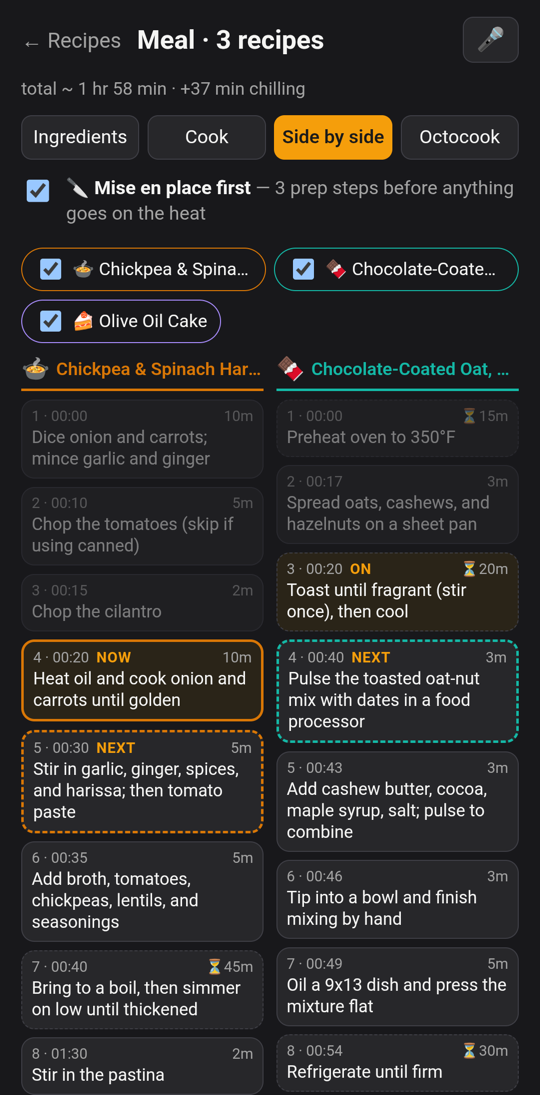
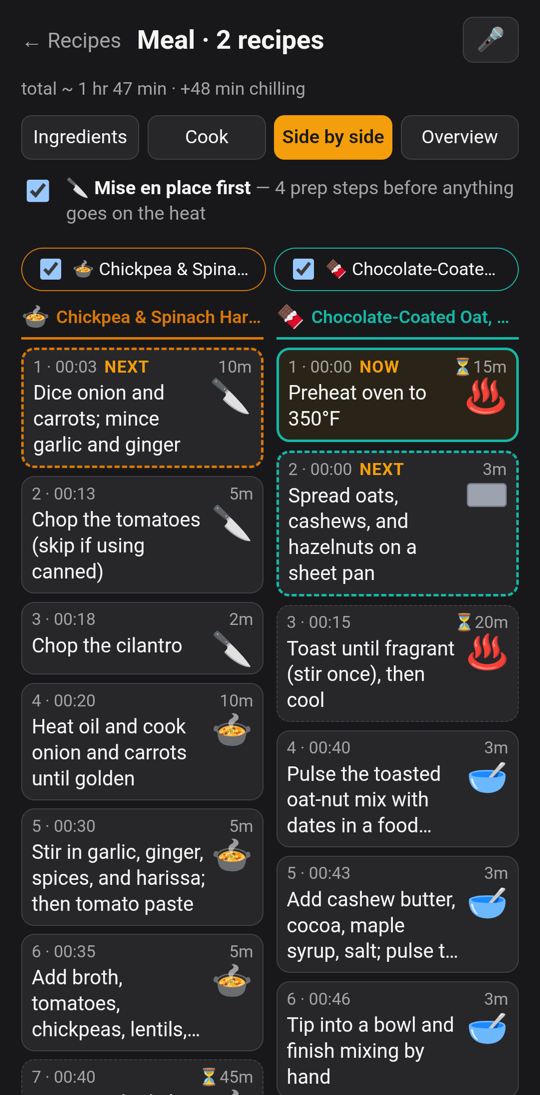
update README screenshots for Overview and Side by side

diff --git a/README.md b/README.md
@@ -9,7 +9,7 @@ Octocook takes the recipes you want to make, breaks each one into small timed st
   <tr>
     <td align="center"><img src="docs/screenshots/3-cook.png" width="240" alt="Cook mode: the current step, large, with the previous step grayed above and a meanwhile rail showing the oven toasting"><br><sub><b>Cook</b> — one step at a time, with what's going on in the background</sub></td>
     <td align="center"><img src="docs/screenshots/4-side-by-side.png" width="240" alt="Side by side: a column per recipe with NOW, NEXT and ON markers"><br><sub><b>Side by side</b> — where you are in each recipe</sub></td>
-    <td align="center"><img src="docs/screenshots/5-octocook.png" width="240" alt="Overview: the preheat draws a line down to 'Oven ready', with the chopping indented beneath it"><br><sub><b>Overview</b> — the whole interleaved plan</sub></td>
+    <td align="center"><img src="docs/screenshots/5-overview.png" width="240" alt="Overview: the preheat draws a line down to 'Oven ready', with the chopping indented beneath it"><br><sub><b>Overview</b> — the whole interleaved plan</sub></td>
   </tr>
 </table>
 
